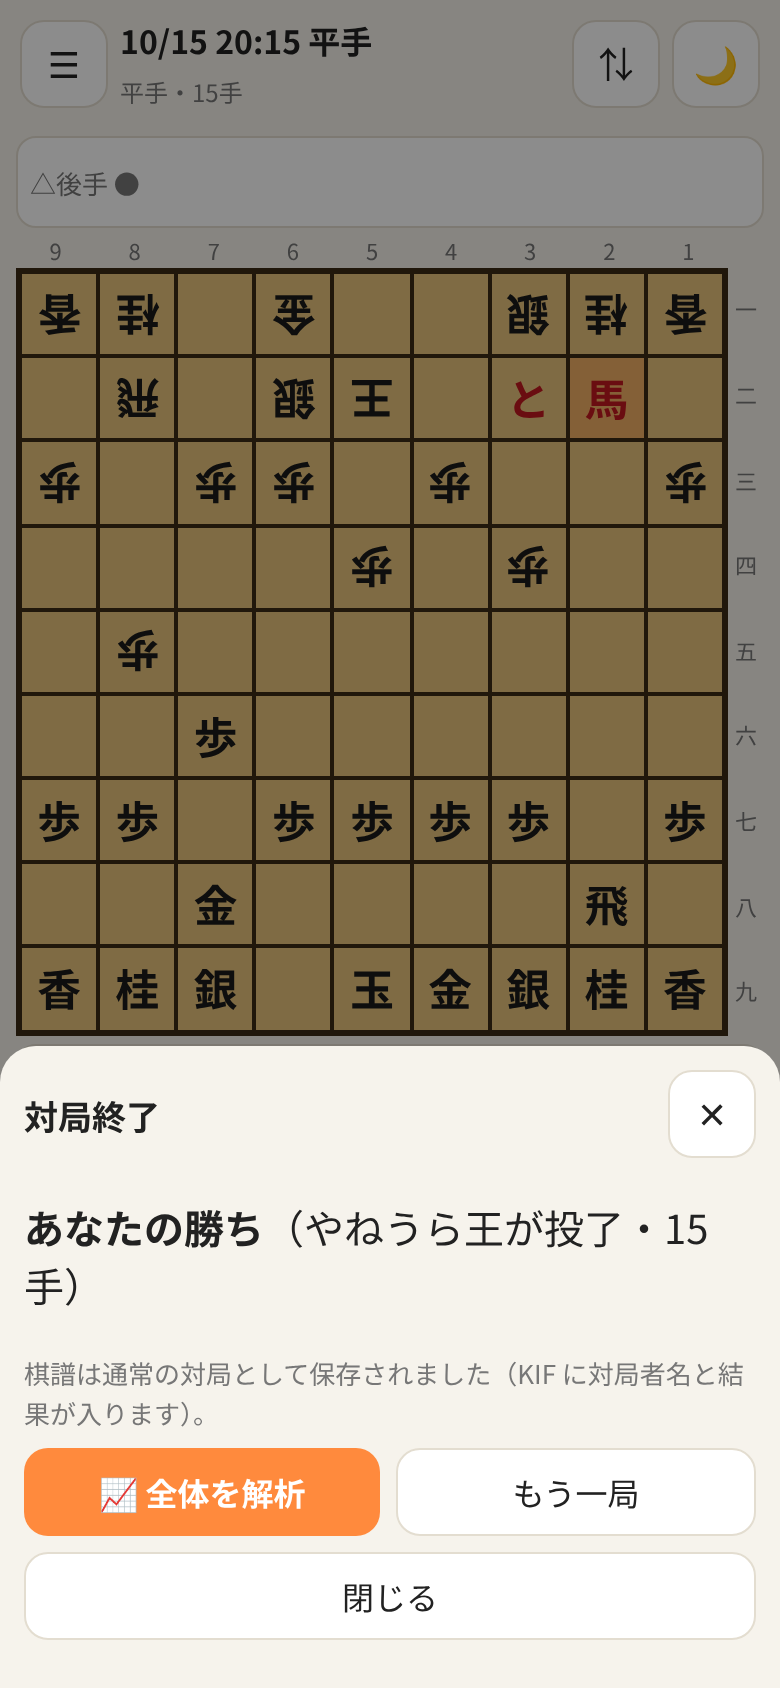
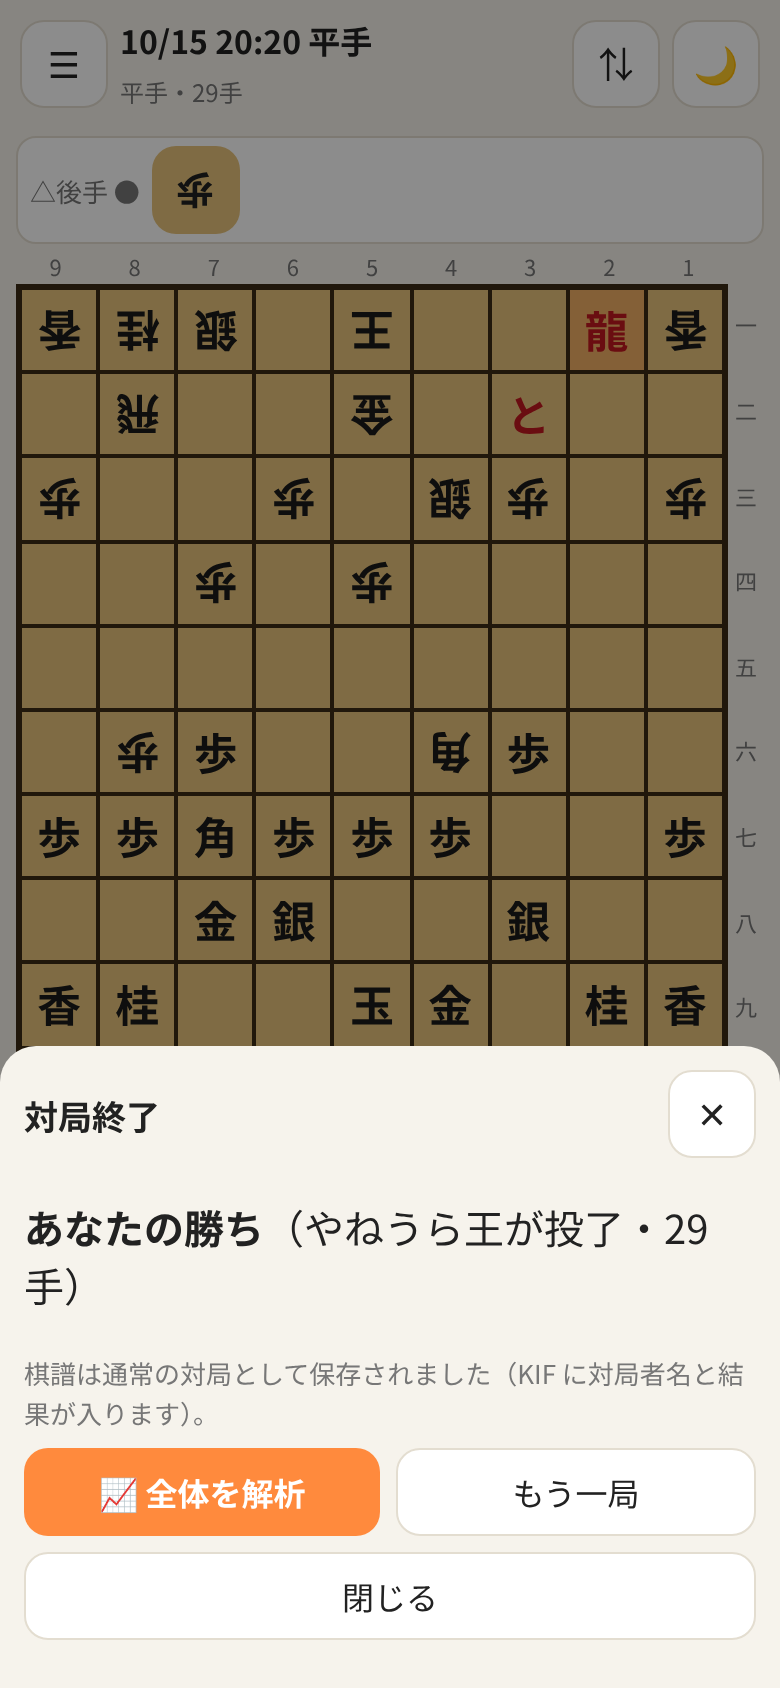
対局バーをフッター上に固定・キャラ縮小、SW sk-v8

diff --git a/tests/layouttest.js b/tests/layouttest.js
@@ -1,0 +1,11 @@
+const puppeteer=require('puppeteer-core');const SS='/workspace/shogi-kifu-app/screenshots/';const sleep=ms=>new Promise(r=>setTimeout(r,ms));
+const URL=process.env.URL||'http://localhost:8765/index.html';
+(async()=>{const br=await puppeteer.launch({executablePath:'/usr/bin/google-chrome',args:['--no-sandbox'],headless:'new',protocolTimeout:0});const out={};
+for(const[w,h]of[[390,844],[375,667]]){const pg=await br.newPage();await pg.setViewport({width:w,height:h,deviceScaleFactor:2});pg.on('dialog',d=>d.dismiss());
+ await pg.goto(URL);await pg.evaluate(()=>localStorage.clear());await sleep(1200);await pg.reload();await sleep(800);
+ await pg.evaluate(async()=>{if(!(await evalCached()))await downloadEval(()=>{});await startEngine();await startPlay({side:'sente',h:'平手',level:1,think:1000,resign:0,main:5,byo:30,camera:false,voice:false});});
+ await sleep(800);await pg.evaluate(()=>say('テスト：キャラの吹き出し',true));await sleep(300);
+ out[w+'x'+h]=await pg.evaluate(()=>['pMatta','pHint','pDecl','pResign'].map(id=>{const r=document.getElementById(id).getBoundingClientRect(),x=r.left+r.width/2,y=r.top+r.height/2,el=document.elementFromPoint(x,y);
+  return id+':'+(el&&(el.id===id||el.closest('#'+id))?'ok':'covered by '+(el&&(el.id||el.className)))+` (y=${Math.round(r.top)}-${Math.round(r.bottom)} / ${innerHeight})`;}));
+ await pg.screenshot({path:SS+`play_layout_${w}x${h}.png`});await pg.close();}
+console.log(JSON.stringify(out,null,1));await br.close();})();

diff --git a/taikyoku.js b/taikyoku.js
@@ -118,7 +118,7 @@ const _render2=render;render=function(){_render2();const h=PLAY.hint;if(h&&PLAY.
 $('.nav').insertAdjacentHTML('beforeend','<button id="bPlay" aria-label="AIと対局">⚔</button>');
 $('.nav').insertAdjacentHTML('afterend','<div id="playbar" class="playbar hidden"></div>');
 $('#bPlay').onclick=()=>openPlay();
-function paintBar(){const el=$('#playbar');if(!PLAY.on&&!PLAY.result){el.classList.add('hidden');return;}el.classList.toggle('hidden',!PLAY.on);if(!PLAY.on)return;
+function paintBar(){const el=$('#playbar');setTimeout(()=>{const on=PLAY.on&&!el.classList.contains('hidden');document.body.classList.toggle('playing',on);if(on)document.documentElement.style.setProperty('--pbh',el.offsetHeight+'px');},0);if(!PLAY.on&&!PLAY.result){el.classList.add('hidden');return;}el.classList.toggle('hidden',!PLAY.on);if(!PLAY.on)return;
  const e=eng(),ho=game.handicap!=='平手',nm=o=>o===e?`🤖 ${lvName(PLAY.opt.level)}`:'🙂 あなた',mk=o=>o?'△':'▲';
  const st_=PLAY.result?'終局':PLAY.thinking?'<span class="spin"></span> やねうら王が考え中…':PLAY.await?`盤で「${PLAY.awaitTxt}」を指してください`:pos().turn===e?'やねうら王の番':'あなたの番です';
  el.innerHTML=`<div class="prow"><span>${mk(1)} ${nm(1)}</span>${PLAY.clock?'<b class="pclk" id="pc1"></b>':''}</div><div class="prow"><span>${mk(0)} ${nm(0)}</span>${PLAY.clock?'<b class="pclk" id="pc0"></b>':''}</div>

diff --git a/sw.js b/sw.js
@@ -1,6 +1,6 @@
 // オフライン用キャッシュ ＋ クロスオリジン分離(COOP/COEP)ヘッダーの付与
 // （GitHub Pages ではヘッダーを設定できないため、coi-serviceworker と同じ方法で SharedArrayBuffer を有効にする）
-const V='sk-v7',F=['./','index.html','style.css','shogi.js','vision.js','griddetect.js','app.js','auto.js','recog.js','recog-ui.js','kento.js','taikyoku.js','model/piece-model.json','model/piece-model.bin','manifest.json','icon.svg'];
+const V='sk-v8',F=['./','index.html','style.css','shogi.js','vision.js','griddetect.js','app.js','auto.js','recog.js','recog-ui.js','kento.js','taikyoku.js','model/piece-model.json','model/piece-model.bin','manifest.json','icon.svg'];
 self.addEventListener('install',e=>{e.waitUntil(caches.open(V).then(c=>c.addAll(F)).catch(()=>{}));self.skipWaiting()});
 self.addEventListener('activate',e=>{e.waitUntil(caches.keys().then(k=>Promise.all(k.filter(x=>x.startsWith('sk-v')&&x!==V).map(x=>caches.delete(x)))));self.clients.claim()});
 const withCOI=r=>{if(!r||r.status===0||r.type==='opaque')return r;const h=new Headers(r.headers);h.set('Cross-Origin-Embedder-Policy','require-corp');h.set('Cross-Origin-Opener-Policy','same-origin');h.set('Cross-Origin-Resource-Policy','same-origin');

diff --git a/style.css b/style.css
@@ -88,3 +88,10 @@ footer #bUndo{flex:.6}
 .cell.hint{box-shadow:inset 0 0 0 3px #29b6f6;background:rgba(41,182,246,.25)}
 .chara.think #slime{animation:think 1s ease-in-out infinite}@keyframes think{50%{transform:scale(1.06,.94) rotate(-4deg)}}
 .pawait{padding:8px;border-radius:10px;background:rgba(255,138,61,.15);margin-bottom:8px}label.chk{display:flex;gap:6px;align-items:flex-start;font-size:13px;margin:6px 0}
+/* 対局中: 操作バーをフッターの上に固定、キャラは小さくして上へ逃がす */
+body.playing{padding-bottom:calc(88px + var(--pbh,150px) + env(safe-area-inset-bottom))}
+body.playing .playbar{position:fixed;left:0;right:0;bottom:calc(73px + env(safe-area-inset-bottom));max-width:520px;margin:0 auto;z-index:6;border-radius:12px 12px 0 0;background:var(--bg);border-top:1px solid var(--bd);box-shadow:0 -4px 12px rgba(0,0,0,.08);padding:6px 10px;box-sizing:border-box}
+body.playing .playbar .prow{padding:0;font-size:13px}body.playing .playbar .pst{margin:2px 0}
+body.playing .playbar .row button{min-height:44px}
+body.playing .chara{bottom:calc(80px + var(--pbh,150px) + env(safe-area-inset-bottom));transform:scale(.6);transform-origin:100% 100%}
+body.playing .chara .bubble{font-size:15px}
